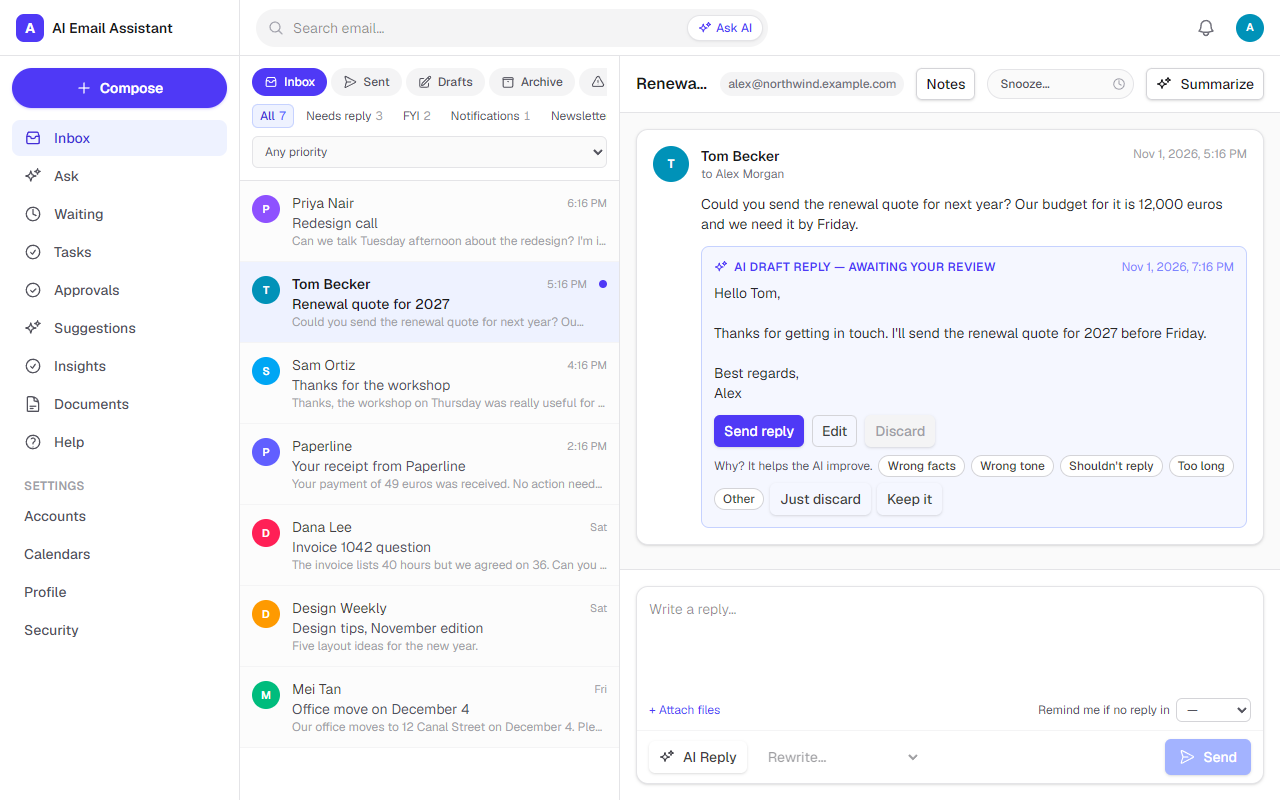
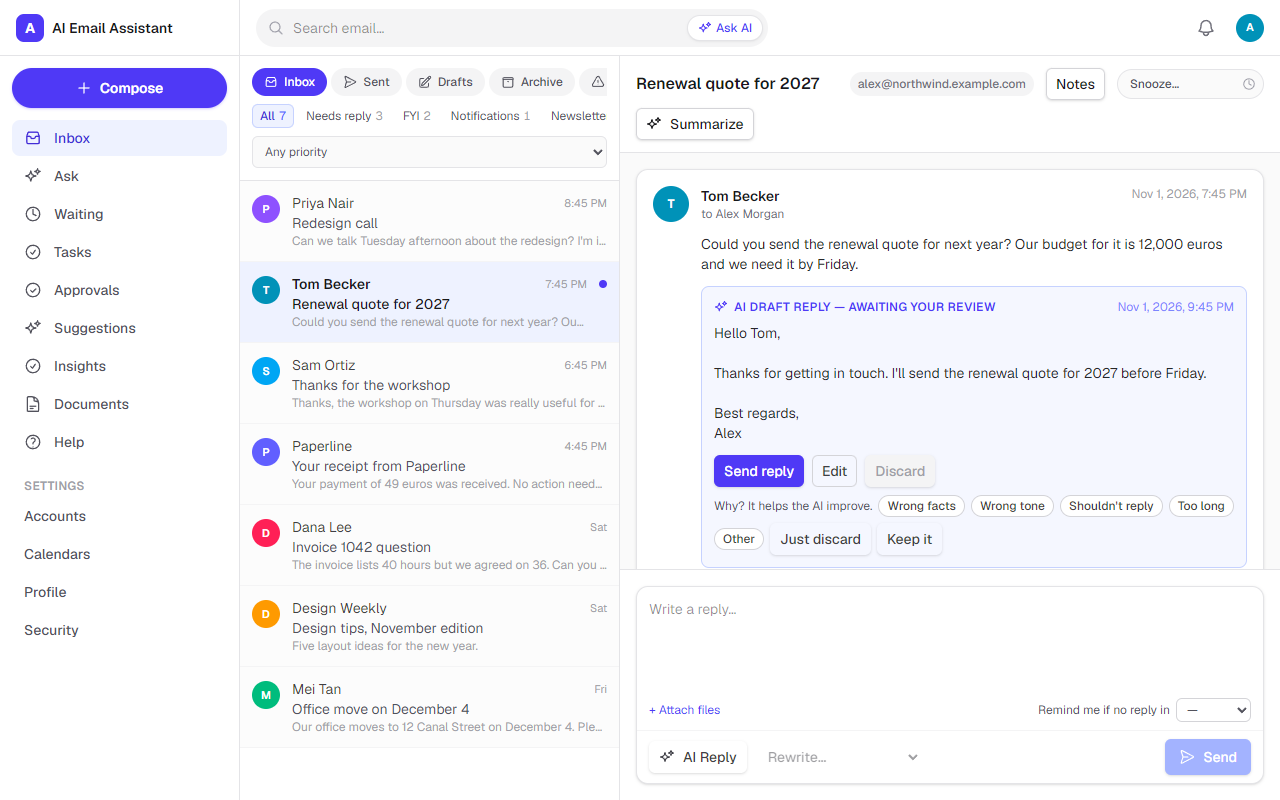
feat: enhance UI components with improved layout and responsiveness across documents, inbox, and settings

diff --git a/apps/web/components/layout/Topbar.tsx b/apps/web/components/layout/Topbar.tsx
@@ -5,10 +5,10 @@ import { Suspense, useState, type FormEvent } from "react";
 
 import { NotificationBell } from "@/components/notifications/NotificationBell";
 import { Avatar } from "@/components/ui/Avatar";
-import { SearchIcon, SparklesIcon } from "@/components/icons";
+import { MenuIcon, SearchIcon, SparklesIcon } from "@/components/icons";
 import { useAuth } from "@/lib/auth/auth-context";
 
-export function Topbar() {
+export function Topbar({ onOpenMenu }: { onOpenMenu: () => void }) {
   const { user, logout } = useAuth();
   const router = useRouter();
   const [menuOpen, setMenuOpen] = useState(false);
@@ -21,12 +21,20 @@ export function Topbar() {
   const label = user?.displayName ?? user?.email ?? "?";
 
   return (
-    <header className="flex h-14 shrink-0 items-center justify-between gap-4 border-b border-zinc-200 bg-white px-4">
-      <Suspense fallback={<div className="max-w-lg flex-1" />}>
+    <header className="flex h-14 shrink-0 items-center justify-between gap-2 border-b border-zinc-200 bg-white px-4 sm:gap-4">
+      <button
+        type="button"
+        onClick={onOpenMenu}
+        aria-label="Open menu"
+        className="-ml-1 shrink-0 rounded-full p-1.5 text-zinc-500 hover:bg-zinc-100 hover:text-zinc-700 sm:hidden"
+      >
+        <MenuIcon className="h-5 w-5" />
+      </button>
+      <Suspense fallback={<div className="max-w-lg min-w-0 flex-1" />}>
         <SearchBox />
       </Suspense>
 
-      <div className="flex items-center gap-3">
+      <div className="flex shrink-0 items-center gap-3">
         <NotificationBell />
         <div className="relative">
           <button
@@ -86,7 +94,7 @@ function SearchBox() {
 
   return (
     // Keyed by the URL's query so the field resets whenever it changes.
-    <form key={q} onSubmit={handleSearchSubmit} className="max-w-lg flex-1">
+    <form key={q} onSubmit={handleSearchSubmit} className="max-w-lg min-w-0 flex-1">
       <div className="relative">
         <SearchIcon className="pointer-events-none absolute top-1/2 left-3 h-4 w-4 -translate-y-1/2 text-zinc-400" />
         <input
@@ -95,7 +103,7 @@ function SearchBox() {
           defaultValue={q}
           placeholder="Search email…"
           aria-label="Search email"
-          className="w-full rounded-full border border-transparent bg-zinc-100 py-2 pr-24 pl-9 text-sm transition-colors focus:border-indigo-500 focus:bg-white focus:outline-none focus:ring-1 focus:ring-indigo-500"
+          className="w-full rounded-full border border-transparent bg-zinc-100 py-2 pr-11 pl-9 text-sm transition-colors focus:border-indigo-500 focus:bg-white focus:outline-none focus:ring-1 focus:ring-indigo-500 sm:pr-24"
         />
         {/* type="button": Enter must keep searching the inbox, and a form's
             first submit button is what Enter presses. */}
@@ -108,10 +116,11 @@ function SearchBox() {
             router.push(value ? `/ask?q=${encodeURIComponent(value)}` : "/ask");
           }}
           title="Ask a question about your email"
+          aria-label="Ask AI"
           className="absolute top-1/2 right-1.5 flex -translate-y-1/2 items-center gap-1 rounded-full bg-white px-2.5 py-1 text-xs font-medium text-indigo-600 shadow-sm ring-1 ring-zinc-200 hover:bg-indigo-50"
         >
           <SparklesIcon className="h-3.5 w-3.5" />
-          Ask AI
+          <span className="hidden sm:inline">Ask AI</span>
         </button>
       </div>
     </form>

diff --git a/apps/web/app/(app)/documents/page.tsx b/apps/web/app/(app)/documents/page.tsx
@@ -124,7 +124,7 @@ export default function DocumentsPage() {
               value={searchQuery}
               onChange={(e) => setSearchQuery(e.target.value)}
               placeholder="Ask something covered by your documents…"
-              className="flex-1 rounded-md border border-zinc-300 px-3 py-2 text-sm"
+              className="min-w-0 flex-1 rounded-md border border-zinc-300 px-3 py-2 text-sm"
             />
             <Button
               type="submit"
@@ -134,18 +134,18 @@ export default function DocumentsPage() {
               Search
             </Button>
           </div>
-          <div className="flex gap-2">
+          <div className="flex flex-wrap gap-2">
             <input
               value={categoryFilter}
               onChange={(e) => setCategoryFilter(e.target.value)}
               placeholder="Filter by category (optional)"
-              className="flex-1 rounded-md border border-zinc-300 px-3 py-1.5 text-xs"
+              className="min-w-0 flex-1 basis-48 rounded-md border border-zinc-300 px-3 py-1.5 text-xs"
             />
             <input
               value={documentTypeFilter}
               onChange={(e) => setDocumentTypeFilter(e.target.value)}
               placeholder="Filter by file type, e.g. pdf (optional)"
-              className="flex-1 rounded-md border border-zinc-300 px-3 py-1.5 text-xs"
+              className="min-w-0 flex-1 basis-48 rounded-md border border-zinc-300 px-3 py-1.5 text-xs"
             />
           </div>
         </form>

diff --git a/apps/web/components/inbox/MeetingCard.tsx b/apps/web/components/inbox/MeetingCard.tsx
@@ -78,7 +78,7 @@ export function MeetingCard({
 
   return (
     <Shell>
-      <div className="min-w-0 flex-1 space-y-2">
+      <div className="min-w-0 flex-1 basis-60 space-y-2">
         <p className="text-zinc-700">
           <span className="font-medium">Meeting request:</span>{" "}
           {task.description}
@@ -110,7 +110,7 @@ export function MeetingCard({
 
 function Shell({ children }: { children: React.ReactNode }) {
   return (
-    <div className="flex shrink-0 items-start gap-3 border-b border-indigo-100 bg-indigo-50/60 px-4 py-2.5 text-xs">
+    <div className="flex shrink-0 flex-wrap items-start gap-3 border-b border-indigo-100 bg-indigo-50/60 px-4 py-2.5 text-xs">
       <ClockIcon className="mt-0.5 h-4 w-4 shrink-0 text-indigo-500" />
       {children}
     </div>
@@ -184,8 +184,10 @@ function CreateEvent({
             checked={invite}
             onChange={(event) => setInvite(event.target.checked)}
           />
-          Invite {proposal.attendeeEmail} (sends them a calendar invite and a
-          short confirmation reply in this thread)
+          <span className="min-w-0 break-words">
+            Invite {proposal.attendeeEmail} (sends them a calendar invite and a
+            short confirmation reply in this thread)
+          </span>
         </label>
       )}
       {createMutation.isError && (

diff --git a/apps/web/components/layout/Sidebar.tsx b/apps/web/components/layout/Sidebar.tsx
@@ -34,11 +34,33 @@ const SETTINGS_ITEMS = [
   { href: "/settings/security", label: "Security" },
 ];
 
-export function Sidebar() {
+export function Sidebar({
+  open,
+  onClose,
+}: {
+  // Below sm the sidebar is a drawer opened from the Topbar's menu button.
+  open: boolean;
+  onClose: () => void;
+}) {
   const pathname = usePathname();
 
   return (
-    <nav className="hidden w-60 shrink-0 flex-col border-r border-zinc-200 bg-white sm:flex">
+    <>
+      {open && (
+        <div
+          className="fixed inset-0 z-30 bg-black/30 sm:hidden"
+          onClick={onClose}
+        />
+      )}
+      <nav
+        onClick={(event) => {
+          if ((event.target as HTMLElement).closest("a")) onClose();
+        }}
+        className={clsx(
+          "w-60 shrink-0 flex-col border-r border-zinc-200 bg-white sm:static sm:z-auto sm:flex",
+          open ? "fixed inset-y-0 left-0 z-40 flex" : "hidden",
+        )}
+      >
       <div className="flex h-14 shrink-0 items-center gap-2 border-b border-zinc-200 px-4">
         <span className="flex h-7 w-7 items-center justify-center rounded-lg bg-indigo-600 text-sm font-bold text-white">
           A
@@ -106,6 +128,7 @@ export function Sidebar() {
           </ul>
         </li>
       </ul>
-    </nav>
+      </nav>
+    </>
   );
 }

diff --git a/apps/web/app/(app)/layout.tsx b/apps/web/app/(app)/layout.tsx
@@ -1,7 +1,7 @@
 "use client";
 
 import { useRouter } from "next/navigation";
-import { useEffect, type ReactNode } from "react";
+import { useEffect, useState, type ReactNode } from "react";
 
 import { Sidebar } from "@/components/layout/Sidebar";
 import { Topbar } from "@/components/layout/Topbar";
@@ -11,6 +11,7 @@ import { useAuth } from "@/lib/auth/auth-context";
 export default function AppLayout({ children }: { children: ReactNode }) {
   const { isAuthenticated, isLoading } = useAuth();
   const router = useRouter();
+  const [menuOpen, setMenuOpen] = useState(false);
 
   useEffect(() => {
     if (!isLoading && !isAuthenticated) router.replace("/login");
@@ -20,9 +21,9 @@ export default function AppLayout({ children }: { children: ReactNode }) {
 
   return (
     <div className="flex min-h-0 flex-1 overflow-hidden">
-      <Sidebar />
-      <div className="flex min-h-0 flex-1 flex-col overflow-hidden">
-        <Topbar />
+      <Sidebar open={menuOpen} onClose={() => setMenuOpen(false)} />
+      <div className="flex min-h-0 min-w-0 flex-1 flex-col overflow-hidden">
+        <Topbar onOpenMenu={() => setMenuOpen(true)} />
         <main className="flex min-h-0 flex-1 flex-col overflow-y-auto">
           {children}
         </main>

diff --git a/apps/web/components/settings/EmailAccountCard.tsx b/apps/web/components/settings/EmailAccountCard.tsx
@@ -104,8 +104,8 @@ export function EmailAccountCard({
 
   return (
     <div className="rounded-lg border border-zinc-200 bg-white p-4">
-      <div className="flex flex-col gap-3 sm:flex-row sm:items-center sm:justify-between">
-        <div className="min-w-0">
+      <div className="flex flex-wrap items-center justify-between gap-3">
+        <div className="min-w-0 flex-1 basis-64">
           <div className="flex items-center gap-2">
             <p className="truncate text-sm font-medium text-zinc-900">
               {account.email}
@@ -162,7 +162,7 @@ export function EmailAccountCard({
           )}
         </div>
 
-        <div className="flex shrink-0 flex-wrap gap-2">
+        <div className="flex flex-wrap gap-2">
           <Button variant="secondary" size="sm" onClick={onSyncNow} disabled={busy}>
             Sync now
           </Button>

diff --git a/apps/web/app/(app)/inbox/[threadId]/page.tsx b/apps/web/app/(app)/inbox/[threadId]/page.tsx
@@ -178,7 +178,7 @@ export default function ThreadPage() {
 
   return (
     <div className="flex min-h-0 w-full flex-1 flex-col overflow-hidden bg-zinc-50">
-      <div className="flex shrink-0 items-center gap-3 border-b border-zinc-200 bg-white px-4 py-3">
+      <div className="flex shrink-0 flex-wrap items-center gap-x-3 gap-y-2 border-b border-zinc-200 bg-white px-4 py-3">
         <Link
           href="/inbox"
           aria-label="Back to inbox"
@@ -186,7 +186,7 @@ export default function ThreadPage() {
         >
           <ChevronLeftIcon className="h-5 w-5" />
         </Link>
-        <h1 className="min-w-0 flex-1 truncate text-base font-semibold text-zinc-900">
+        <h1 className="min-w-0 flex-1 basis-40 truncate text-base font-semibold text-zinc-900">
           {thread.subject || "(no subject)"}
         </h1>
         <span

diff --git a/apps/web/components/inbox/ReplyBox.tsx b/apps/web/components/inbox/ReplyBox.tsx
@@ -135,7 +135,7 @@ export function ReplyBox({
           <RemindSelect value={remindDays} onChange={setRemindDays} />
         </div>
 
-        <div className="flex items-center justify-between border-t border-zinc-100 px-3 py-2">
+        <div className="flex flex-wrap items-center justify-between gap-2 border-t border-zinc-100 px-3 py-2">
           <div className="flex gap-2">
             <Button
               type="button"
@@ -154,7 +154,7 @@ export function ReplyBox({
               accountId={accountId}
             />
           </div>
-          <div className="flex items-center gap-3">
+          <div className="ml-auto flex items-center gap-3">
             {hasOtherRecipients && (
               <label className="flex items-center gap-1.5 text-xs text-zinc-600">
                 <input

diff --git a/apps/web/app/(app)/inbox/layout.tsx b/apps/web/app/(app)/inbox/layout.tsx
@@ -16,7 +16,12 @@ export default function InboxLayout({ children }: { children: ReactNode }) {
 
   return (
     <div className="flex min-h-0 flex-1 overflow-hidden">
-      <div className={clsx("h-full", threadActive ? "hidden lg:block" : "block")}>
+      <div
+        className={clsx(
+          "h-full w-full min-w-0 lg:w-auto lg:shrink-0",
+          threadActive ? "hidden lg:block" : "block",
+        )}
+      >
         <Suspense
           fallback={
             <div className="flex h-full w-full flex-col border-r border-zinc-200 bg-white lg:w-95 lg:shrink-0">

diff --git a/apps/web/components/icons.tsx b/apps/web/components/icons.tsx
@@ -451,3 +451,20 @@ export function ApprovalIcon({ className }: IconProps) {
     </svg>
   );
 }
+
+export function MenuIcon({ className }: IconProps) {
+  return (
+    <svg
+      viewBox="0 0 24 24"
+      fill="none"
+      stroke="currentColor"
+      strokeWidth={1.75}
+      strokeLinecap="round"
+      strokeLinejoin="round"
+      className={className}
+      aria-hidden="true"
+    >
+      <path d="M4 6h16M4 12h16M4 18h16" />
+    </svg>
+  );
+}
